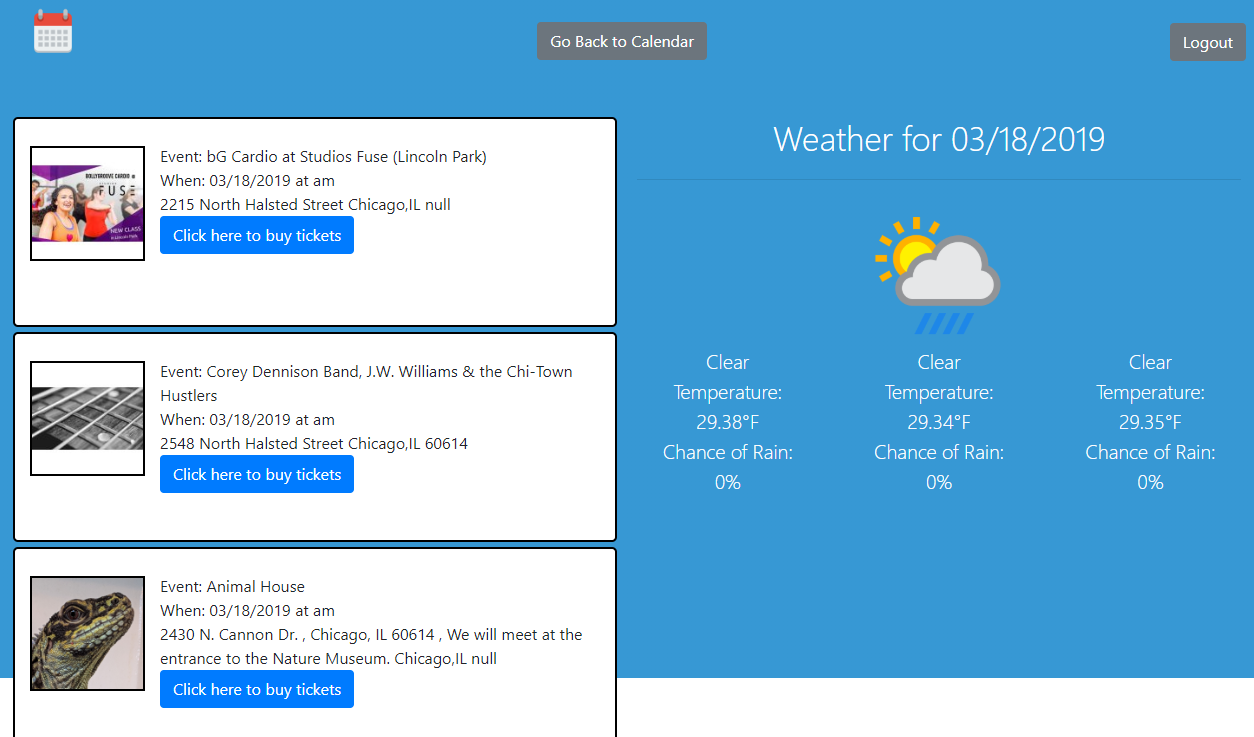
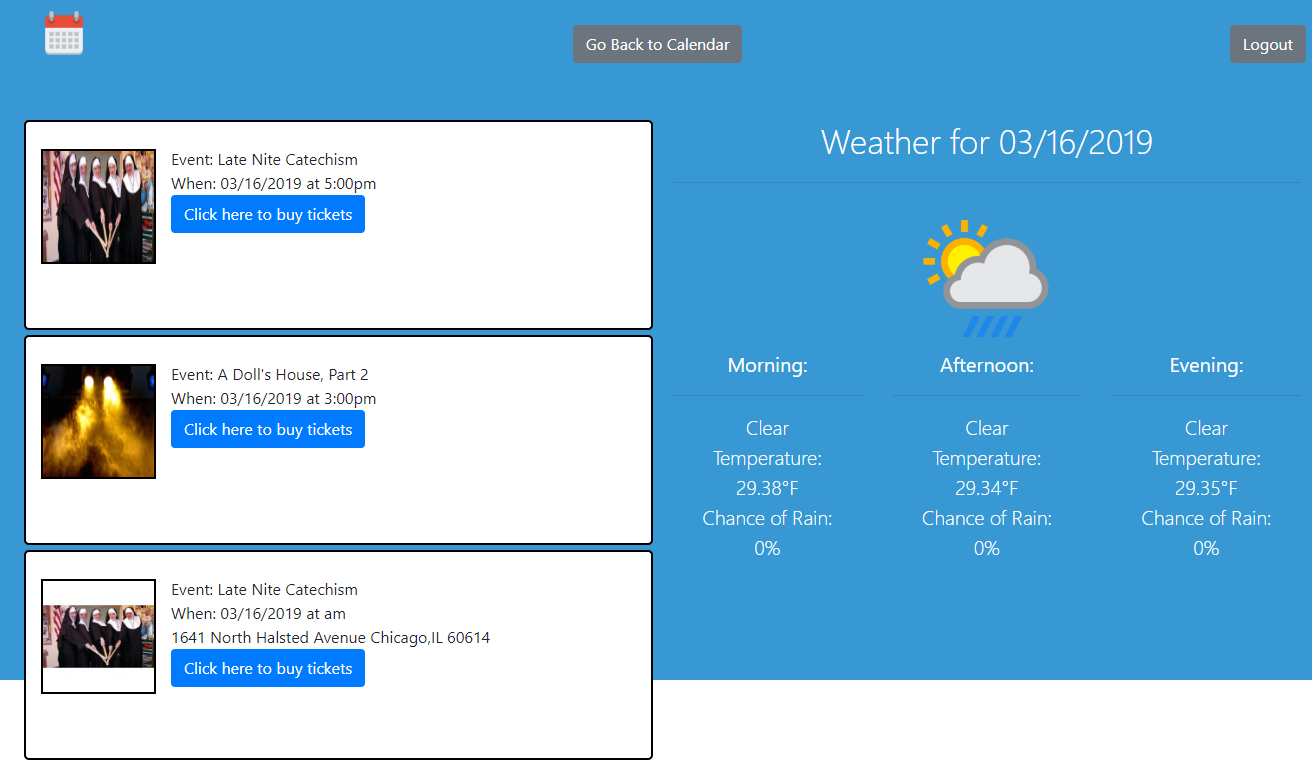
Updating the weather so it shows the time of when the weather is

diff --git a/index.html b/index.html
@@ -85,17 +85,20 @@
                     <div>
                         <img class="weather-icon" src="./assets/images/weather.png" alt="Weather Icon">
                         <div class="weather-display row">
-                            <div class="col-md-4 morning-weather">
-                                7AM
-                                <hr>
+                            <div class="col-md-4">
+                                <strong>Morning:</strong>
+                                <hr />
+                                <div class="morning-weather"></div>
                             </div>
-                            <div class="col-md-4 afternoon-weather">
-                                Noon
-                                <hr>
+                            <div class="col-md-4">
+                                <strong>Afternoon:</strong>
+                                <hr />
+                                <div class="afternoon-weather"></div>
                             </div>
-                            <div class="col-md-4 evening-weather">
-                                10PM
-                                <hr>
+                            <div class="col-md-4">
+                                <strong>Evening:</strong>
+                                <hr />
+                                <div class="evening-weather"></div>
                             </div>
                         </div>
                     </div>
@@ -120,8 +123,7 @@
         </div>
     </div>
 
-    <script src='https://code.jquery.com/jquery-3.3.1.min.js' integrity='sha256-FgpCb/KJQlLNfOu91ta32o/NMZxltwRo8QtmkMRdAu8='
-        crossorigin='anonymous'></script>
+    <script src='https://code.jquery.com/jquery-3.3.1.min.js' integrity='sha256-FgpCb/KJQlLNfOu91ta32o/NMZxltwRo8QtmkMRdAu8=' crossorigin='anonymous'></script>
     <script src="https://www.gstatic.com/firebasejs/5.5.4/firebase.js"></script>
     <script src="https://cdnjs.cloudflare.com/ajax/libs/moment.js/2.22.2/moment.js"></script>
     <script src="assets/login.js"></script>

diff --git a/README.md b/README.md
@@ -3,7 +3,7 @@
 <strong>Deployed at:</strong> https://smushed.github.io/PlanEasy/<br/>
 <strong>Title:</strong> PlanEasy<br />
 <strong>Developers:</strong> Kevin Flerlage<br />
-<strong>Last Update:</strong> 03/11/2019<br />
+<strong>Last Update:</strong> 03/12/2019<br />
 <strong>Developed With:</strong> HTML, Javascript, Firebase<br/>
 
 ## **About This App**
